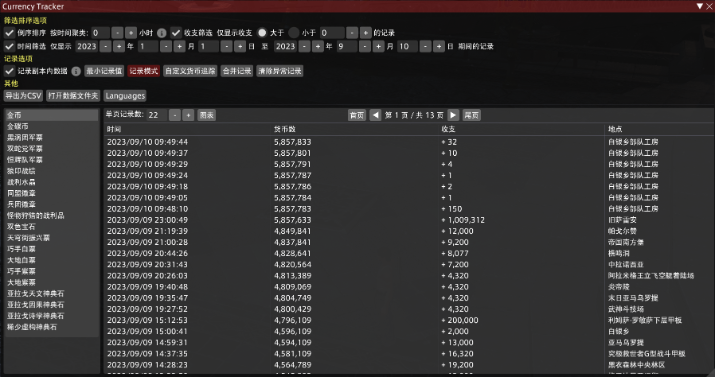
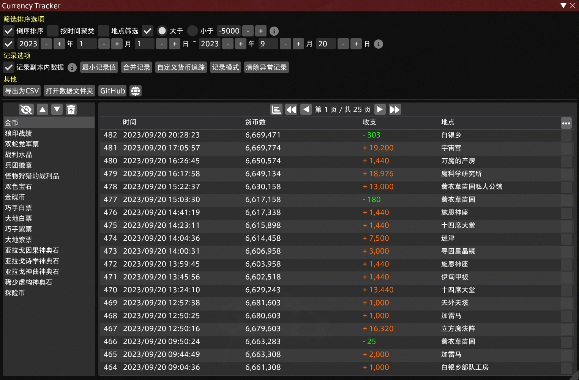
Currency Tracker 1.2.3.1

Changed region(s): [[0.0, 0.0, 1.0, 1.0], [0.7461, 0.321, 0.9637, 0.992]]

diff --git a/CurrencyTracker/Windows/Main.cs b/CurrencyTracker/Windows/Main.cs
@@ -1287,6 +1287,8 @@ public class Main : Window, IDisposable
         {
             currentTypeTransactions = transactions.LoadAllTransactions(selectedCurrencyName);
 
+            if (currentTypeTransactions.Count <= 0) return;
+
             if (isReversed)
                 currentTypeTransactions.Reverse();
 
@@ -1304,8 +1306,6 @@ public class Main : Window, IDisposable
 
             if (isLocationFilterEnabled)
                 currentTypeTransactions = ApplyLocationFilter(currentTypeTransactions, searchLocationName);
-
-            if (currentTypeTransactions.Count <= 0) return;
 
             if (!Widgets.AreTransactionsEqual(lastTransactions, currentTypeTransactions))
             {
@@ -1451,7 +1451,7 @@ public class Main : Window, IDisposable
                     }
 
                     ImGui.TableNextColumn();
-                    if (ImGui.IsKeyDown(ImGuiKey.LeftCtrl))
+                    if (ImGui.IsKeyDown(ImGuiKey.LeftCtrl) && ImGui.IsMouseDown(ImGuiMouseButton.Right))
                     {
                         ImGui.Selectable(transaction.TimeStamp.ToString("yyyy/MM/dd HH:mm:ss"), ref selected, ImGuiSelectableFlags.SpanAllColumns);
                         if (ImGui.IsItemHovered())
@@ -1478,7 +1478,7 @@ public class Main : Window, IDisposable
                         ImGui.Selectable(transaction.TimeStamp.ToString("yyyy/MM/dd HH:mm:ss"));
                     }
 
-                    if (ImGui.IsItemHovered() && ImGui.IsMouseClicked(ImGuiMouseButton.Right))
+                    if (ImGui.IsItemHovered() && ImGui.IsMouseClicked(ImGuiMouseButton.Right) && !ImGui.IsKeyDown(ImGuiKey.LeftCtrl))
                     {
                         ImGui.SetClipboardText(transaction.TimeStamp.ToString("yyyy/MM/dd HH:mm:ss"));
                         Service.Chat.Print($"{Lang.GetText("CopiedToClipboard")}: {transaction.TimeStamp.ToString("yyyy/MM/dd HH:mm:ss")}");
@@ -1487,7 +1487,7 @@ public class Main : Window, IDisposable
                     ImGui.TableNextColumn();
                     ImGui.Selectable(transaction.Amount.ToString("#,##0"));
 
-                    if (ImGui.IsItemHovered() && ImGui.IsMouseClicked(ImGuiMouseButton.Right))
+                    if (ImGui.IsItemHovered() && ImGui.IsMouseClicked(ImGuiMouseButton.Right) && !ImGui.IsKeyDown(ImGuiKey.LeftCtrl))
                     {
                         ImGui.SetClipboardText(transaction.Amount.ToString("#,##0"));
                         Service.Chat.Print($"{Lang.GetText("CopiedToClipboard")}: {transaction.Amount.ToString("#,##0")}");
@@ -1512,7 +1512,7 @@ public class Main : Window, IDisposable
                         ImGui.Selectable(transaction.Change.ToString("+ #,##0;- #,##0;0"));
                     }
 
-                    if (ImGui.IsItemHovered() && ImGui.IsMouseClicked(ImGuiMouseButton.Right))
+                    if (ImGui.IsItemHovered() && ImGui.IsMouseClicked(ImGuiMouseButton.Right) && !ImGui.IsKeyDown(ImGuiKey.LeftCtrl))
                     {
                         ImGui.SetClipboardText(transaction.Change.ToString("+ #,##0;- #,##0;0"));
                         Service.Chat.Print($"{Lang.GetText("CopiedToClipboard")} : {transaction.Change.ToString("+ #,##0;- #,##0;0")}");
@@ -1521,7 +1521,7 @@ public class Main : Window, IDisposable
                     ImGui.TableNextColumn();
                     ImGui.Selectable(transaction.LocationName);
 
-                    if (ImGui.IsItemHovered() && ImGui.IsMouseClicked(ImGuiMouseButton.Right))
+                    if (ImGui.IsItemHovered() && ImGui.IsMouseClicked(ImGuiMouseButton.Right) && !ImGui.IsKeyDown(ImGuiKey.LeftCtrl))
                     {
                         ImGui.SetClipboardText(transaction.LocationName);
                         Service.Chat.Print($"{Lang.GetText("CopiedToClipboard")}: {transaction.LocationName}");

diff --git a/CurrencyTracker/Manager/Tracker.cs b/CurrencyTracker/Manager/Tracker.cs
@@ -41,7 +41,7 @@ namespace CurrencyTracker.Manager
         private static readonly ushort[] IgnoreChatTypes = new ushort[]
         {
             // 战斗相关 Related to Battle
-            2091, 2218, 2857, 2729, 2224, 2222, 2859, 2219, 2221, 4139, 4398, 4270, 4397, 4269, 4400, 4777, 10283, 10537, 10409, 18475, 19113, 4783, 10544, 10929, 19632, 4399, 2223, 2225, 4401, 18734, 12331, 4783, 12331, 12585, 12591, 18605, 10922, 18733, 10928, 4778, 13098, 4922, 10410, 9001, 8235, 8752, 9007, 8236, 8746, 8750,
+            2091, 2218, 2857, 2729, 2224, 2222, 2859, 2219, 2221, 4139, 4398, 4270, 4397, 4269, 4400, 4777, 10283, 10537, 10409, 18475, 19113, 4783, 10544, 10929, 19632, 4399, 2223, 2225, 4401, 18734, 12331, 4783, 12331, 12585, 12591, 18605, 10922, 18733, 10928, 4778, 13098, 4922, 10410, 9001, 8235, 8752, 9007, 8236, 8746, 8750, 13104, 13102, 12713, 12719, 6959,
             // 新人频道 Novice Network
             27
         };

diff --git a/CurrencyTracker/Manager/Transactions.cs b/CurrencyTracker/Manager/Transactions.cs
@@ -177,7 +177,7 @@ namespace CurrencyTracker.Manager
                     }
                 }
 
-                mergedTransactions.Insert(0, currentTransaction);
+                mergedTransactions.Add(currentTransaction);
                 currentIndex = nextIndex;
             }
 

diff --git a/Changelogs.md b/Changelogs.md
@@ -2,6 +2,7 @@
 
 | Date       | Version | Update Description                                           |
 | ---------- | ------- | ------------------------------------------------------------ |
+| 2023/09/20 | 1.2.3.1 | A small fix to Merge Transactions.                           |
 | 2023/09/18 | 1.2.3.0 | - Functional Adjustments:<br/>  - Added a new function Location Filter under Filter Options, and it enables users to enter key words to serach transactions with relevant Location names.<br/>  - Added some new functions under Transactions Toolbar: Select All, Inverse Select, Unselect.<br/>  - Added a new interface operation logic to Transactions List, which now enables users to select a number of transactions when holding Ctrl.<br/>  - Adjusted Time Filter function code logic.<br/>- UI Adjustments:<br/>  - Added a sequence number column to Transactions List.<br/>  - Adjusted the layout of various functions when expanding/collapsing under the Filter Options.<br/>  - Adjusted the appearance of the functions under Filter Options except for the Inverse Sort function when enabled.<br/>- Others:<br/>  - Adjusted Transactions List draw logic.<br/>  - Adjusted some appropiate expressions in English localization. |
 | 2023/09/15 | 1.2.2.0 | - UI Adjustments:<br/>  - Changed the "Graphs" and "Languages" buttons to display as icon buttons.<br/>  - Adjusted the position of the "Graphs" button.<br/>  - Changed the way data charts are drawn.<br/>- Functional Adjustments:<br/>  - Now allows selection of individual rows in the data charts with corresponding functionality.<br/>  - Now allows right-clicking on a cell within the data chart to copy its content. |
 | 2023/09/13 | 1.2.1.2 | - UI Adjustments:<br>  - Now the "First" and "Last" Button are changed into Icon Buttons.<br>  - You can make "Graphs" button left or right-aligned by right-clicking.<br>  - Adjust the data chart's appearence |
@@ -26,6 +27,7 @@
 
 | 日期          | 版本号      | 更新日志                   |
 |---------------|-------------|----------------------------|
+| 2023年9月20日 | 1.2.3.1 | 对合并记录功能进行了一次小修复 |
 | 2023年9月18日 | 1.2.3.0 | - 功能调整：<br>  - 新增“筛选排序选项”下功能：“地点筛选”，其允许通过输入关键词显示含有相关地名的收支记录<br>  - 新增记录工具栏下功能：“全选”、“反选”、“取消选中”<br>  - 新增收支记录界面操作逻辑，可以通过按住 Ctrl 键快速选中大量记录<br>  - 调整了“按时间筛选”功能的实现逻辑<br>- 界面调整：<br>  - 为收支记录列表在最左侧新增了序号列<br>  - 调整了“筛选排序选项”下各功能展开/收起时的排布情况<br>  - 调整了“筛选排序选项”下除“倒序排序”功能启用时的外观表现<br>- 其他：<br>  - 调整了收支记录列表的绘制逻辑<br>  - 调整了英语本地化文本中表述不恰当的词汇语句 |
 | 2023年9月15日 | 1.2.2.0 | - 界面调整:<br>  - 将"图表"、"Languages"按钮修改为以图标按钮的形式进行显示<br>  - 调整了"图表"按钮的位置<br>  - 修改了数据图表的绘制方式<br>- 功能调整:<br>  - 现在允许对数据图表中的单行数据进行选取，并提供了相应的功能<br>  - 现在允许通过右键单一数据图表内的单元格对该单元格的内容进行复制 |
 | 2023年9月13日 | 1.2.1.2 | - 界面 UI 调整:<br>  - 将“首页”、“尾页”按钮修改为图标按钮显示<br>  - 现在可以通过右键“图表”按钮自由选择其在子窗体内为左对齐或右对齐<br>  - 微调了表格的外观 |
